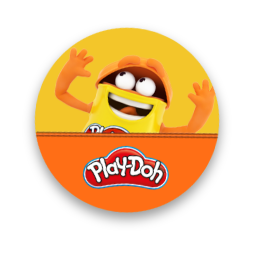
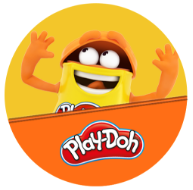
Footer finished

diff --git a/css/style.css b/css/style.css
@@ -1,1 +1,1 @@
-@import url("https://fonts.googleapis.com/css2?family=Poppins:wght@400;700&family=Lato:ital,wght@0,100;0,300;0,400;0,700;0,900;1,100;1,300;1,400;1,700;1,900&display=swap");@import url("https://use.typekit.net/puq2idw.css");body{font-family:"Poppins", sans-serif;font-weight:400;color:#2062d6;min-height:calc(100vh - 20px)}@media (min-width: 768px){body{background-image:url("../assets/imgs/background.jpg");background-size:cover;background-position:center}}a{color:#2062d6}a:hover{color:#2062d6}button:focus{outline:none}.layout{background-color:#2062d6;min-height:calc(100vh - 20px);display:-webkit-box;display:-ms-flexbox;display:flex;-webkit-box-orient:vertical;-webkit-box-direction:normal;-ms-flex-direction:column;flex-direction:column;-webkit-box-pack:start;-ms-flex-pack:start;justify-content:start}.brand-logo{max-width:100%;z-index:1;margin:0 auto;padding:15px;width:240px}@media (min-width: 1200px){.brand-logo{width:300px}}.btn{font-family:"Poppins", sans-serif;font-size:30px;font-weight:700;border:solid 3px #fff;border-radius:20px;-webkit-box-shadow:6.3px 7.8px 0 0 #1aa1f380;box-shadow:6.3px 7.8px 0 0 #1aa1f380;padding:0 45px;text-transform:uppercase;color:white}.btn.btn-primary{background-color:#2062d6}.btn.btn-yellow{background-color:#ffa00e}h1{font-size:38px;line-height:1;text-align:center;color:#2062d6;text-transform:uppercase;font-family:bello-caps, sans-serif}p{font-size:16px}header:not(.isNav) .logo-ope{margin:auto;display:block;margin-top:55px;max-width:100%;width:180px}@media (min-width: 576px){header:not(.isNav) .logo-ope{width:360px}}header.isNav .menu-container{display:-webkit-box;display:-ms-flexbox;display:flex}header.isNav .menu-container .logo-ope{width:150px}header.isNav .menu-container .menu-nav{display:-webkit-box;display:-ms-flexbox;display:flex;-webkit-box-orient:vertical;-webkit-box-direction:normal;-ms-flex-direction:column;flex-direction:column;-webkit-box-align:center;-ms-flex-align:center;align-items:center;background-color:#2062d6;position:absolute;right:0;top:0;bottom:0;width:250px;padding:25px;-webkit-transform:translateX(200px);transform:translateX(200px)}@media (min-width: 992px){header.isNav .menu-container .menu-nav{-webkit-transform:translateX(0);transform:translateX(0);padding:0px;width:auto;-webkit-box-orient:horizontal;-webkit-box-direction:normal;-ms-flex-direction:row;flex-direction:row;position:relative;background-color:transparent}}header.isNav .menu-container .menu-nav .close-menu-btn{display:-webkit-box;display:-ms-flexbox;display:flex}@media (min-width: 992px){header.isNav .menu-container .menu-nav .close-menu-btn{display:none}}header.isNav .menu-container .menu-nav ul{list-style:none;display:-webkit-box;display:-ms-flexbox;display:flex;-webkit-box-orient:vertical;-webkit-box-direction:normal;-ms-flex-direction:column;flex-direction:column}@media (min-width: 992px){header.isNav .menu-container .menu-nav ul{-webkit-box-orient:horizontal;-webkit-box-direction:normal;-ms-flex-direction:row;flex-direction:row}}header.isNav .menu-container .menu-nav ul li a{display:block;color:white;text-decoration:none;margin:5px 0}@media (min-width: 992px){header.isNav .menu-container .menu-nav ul li a{margin:0 20px;color:#2062d6}}footer .container-fluid{max-width:660px}footer .sticker{width:90px}footer a{color:white;font-weight:700;font-size:10px;text-align:center}footer a:hover{color:white}footer a:not(:last-child){padding-right:10px;margin-right:10px}.home{background-position:right}@media (min-width: 1200px){.home .brand-logo{width:500px}}.home .btn.disabled{opacity:1;border-color:white}
+@import url("https://fonts.googleapis.com/css2?family=Poppins:wght@400;700&family=Lato:ital,wght@0,100;0,300;0,400;0,700;0,900;1,100;1,300;1,400;1,700;1,900&display=swap");@import url("https://use.typekit.net/puq2idw.css");body{font-family:"Poppins", sans-serif;font-weight:400;color:#2062d6;min-height:calc(100vh - 20px)}@media (min-width: 768px){body{background-image:url("../assets/imgs/background.jpg");background-size:cover;background-position:center}}a{color:#2062d6}a:hover{color:#2062d6}button:focus{outline:none}.layout{background-color:#2062d6;min-height:calc(100vh - 20px);display:-webkit-box;display:-ms-flexbox;display:flex;-webkit-box-orient:vertical;-webkit-box-direction:normal;-ms-flex-direction:column;flex-direction:column;-webkit-box-pack:start;-ms-flex-pack:start;justify-content:start}.brand-logo{max-width:100%;z-index:1;margin:0 auto;padding:15px;width:240px}@media (min-width: 1200px){.brand-logo{width:300px}}.btn{font-family:"Poppins", sans-serif;font-size:30px;font-weight:700;border:solid 3px #fff;border-radius:20px;-webkit-box-shadow:6.3px 7.8px 0 0 #1aa1f380;box-shadow:6.3px 7.8px 0 0 #1aa1f380;padding:0 45px;text-transform:uppercase;color:white}.btn.btn-primary{background-color:#2062d6}.btn.btn-yellow{background-color:#ffa00e}h1{font-size:38px;line-height:1;text-align:center;color:#2062d6;text-transform:uppercase;font-family:bello-caps, sans-serif}p{font-size:16px}header:not(.isNav) .logo-ope{margin:auto;display:block;margin-top:55px;max-width:100%;width:180px}@media (min-width: 576px){header:not(.isNav) .logo-ope{width:360px}}header.isNav .menu-container{display:-webkit-box;display:-ms-flexbox;display:flex}header.isNav .menu-container .logo-ope{width:150px}header.isNav .menu-container .menu-nav{display:-webkit-box;display:-ms-flexbox;display:flex;-webkit-box-orient:vertical;-webkit-box-direction:normal;-ms-flex-direction:column;flex-direction:column;-webkit-box-align:center;-ms-flex-align:center;align-items:center;background-color:#2062d6;position:absolute;right:0;top:0;bottom:0;width:250px;padding:25px;-webkit-transform:translateX(200px);transform:translateX(200px)}@media (min-width: 992px){header.isNav .menu-container .menu-nav{-webkit-transform:translateX(0);transform:translateX(0);padding:0px;width:auto;-webkit-box-orient:horizontal;-webkit-box-direction:normal;-ms-flex-direction:row;flex-direction:row;position:relative;background-color:transparent}}header.isNav .menu-container .menu-nav .close-menu-btn{display:-webkit-box;display:-ms-flexbox;display:flex}@media (min-width: 992px){header.isNav .menu-container .menu-nav .close-menu-btn{display:none}}header.isNav .menu-container .menu-nav ul{list-style:none;display:-webkit-box;display:-ms-flexbox;display:flex;-webkit-box-orient:vertical;-webkit-box-direction:normal;-ms-flex-direction:column;flex-direction:column}@media (min-width: 992px){header.isNav .menu-container .menu-nav ul{-webkit-box-orient:horizontal;-webkit-box-direction:normal;-ms-flex-direction:row;flex-direction:row}}header.isNav .menu-container .menu-nav ul li a{display:block;color:white;text-decoration:none;margin:5px 0}@media (min-width: 992px){header.isNav .menu-container .menu-nav ul li a{margin:0 20px;color:#2062d6}}footer .container-fluid{max-width:720px}footer .sticker{width:95px;margin-top:15px;margin-right:20px;-webkit-filter:drop-shadow(0 3px 6px);filter:drop-shadow(0 3px 6px)}footer .logo-footer{margin-right:20px}footer .logo-footer:nth-child(1){height:28px;margin-right:5px}footer .logo-footer:nth-child(2){padding:9px;height:60px;margin-right:5px}footer a{color:white;font-family:"Brandon Grotesque", sans-serif;font-weight:700;font-size:12px;text-align:center;padding:0 5px;margin:0 5px}footer a:hover{color:white}footer span{color:white;font-weight:700;font-size:12px;text-align:center}.home{background-position:right}@media (min-width: 1200px){.home .brand-logo{width:500px}}.home .btn.disabled{opacity:1;border-color:white}

diff --git a/sass/partials/_footer.scss b/sass/partials/_footer.scss
@@ -1,21 +1,41 @@
 footer {
   .container-fluid {
-    max-width: 660px;
+    max-width: 720px;
   }
   .sticker {
-    width: 90px;
+    width: 95px;
+    margin-top: 15px;
+    margin-right: 20px;
+    filter: drop-shadow(0 3px 6px);
+  }
+  .logo-footer {
+    margin-right: 20px;
+    &:nth-child(1) {
+      height: 28px;
+      margin-right: 5px;
+    }
+    &:nth-child(2) {
+      padding: 9px;
+      height: 60px;
+      margin-right: 5px;
+    }
   }
   a {
     color: white;
+    font-family: "Brandon Grotesque", sans-serif;
     font-weight: 700;
-    font-size: 10px;
+    font-size: 12px;
     text-align: center;
+    padding: 0 5px;
+    margin: 0 5px;
     &:hover {
       color: white;
     }
-    &:not(:last-child) {
-      padding-right: 10px;
-      margin-right: 10px;
-    }
+  }
+  span {
+    color: white;
+    font-weight: 700;
+    font-size: 12px;
+    text-align: center;
   }
 }

diff --git a/partials/footer.php b/partials/footer.php
@@ -9,22 +9,26 @@
         <img class="sticker" src="../assets/imgs/footer/BAYBLADE.png" alt="Bayblade">
         <img class="sticker" src="../assets/imgs/footer/PERSO7.png" alt="Bayblade">
         <img class="sticker" src="../assets/imgs/footer/NERF2.png" alt="Bayblade">
-        <img class="sticker" src="../assets/imgs/footer/PLAYDOH.png" alt="Bayblade">
+        <img class="sticker" style="transform: rotate(8deg)" src="../assets/imgs/footer/PLAYDOH.png" alt="Bayblade">
         <img class="sticker" src="../assets/imgs/footer/MONOP.png" alt="Bayblade">
         <img class="sticker" src="../assets/imgs/footer/POWER.png" alt="Bayblade">
         <img class="sticker" src="../assets/imgs/footer/STARWARS.png" alt="Bayblade">
       </div>
-      <div class="d-flex justify-content-center">
-        <img src="../assets/imgs/footer/LUCAS.svg" alt="Lucas Film">
-        <img src="../assets/imgs/footer/HASBRO.svg" alt="Hasbro">
-        <img src="../assets/imgs/footer/ADKEM.svg" alt="Adkem">
-        <img src="../assets/imgs/footer/DISNEY.svg" alt="Disney">
-        <img src="../assets/imgs/footer/MARVEL.svg" alt="Marvel">
+      <div class="mt-3">
+        <div class="d-flex justify-content-center align-items-center">
+          <img class="logo-footer" src="../assets/imgs/footer/LUCAS.svg" alt="Lucas Film">
+          <img class="logo-footer" src="../assets/imgs/footer/HASBRO.svg" alt="Hasbro">
+          <img class="logo-footer" src="../assets/imgs/footer/ADKEM.svg" alt="Adkem">
+          <img class="logo-footer" src="../assets/imgs/footer/DISNEY.svg" alt="Disney">
+          <img class="logo-footer" src="../assets/imgs/footer/MARVEL.svg" alt="Marvel">
+        </div>
       </div>
       <div class="d-flex justify-content-center">
         <div class="">
           <a href="#">Règlement</a>
+          <span>-</span>
           <a href="#">Mentions Légales</a>
+          <span>-</span>
           <a href="#">Contact</a>
         </div>
       </div>
